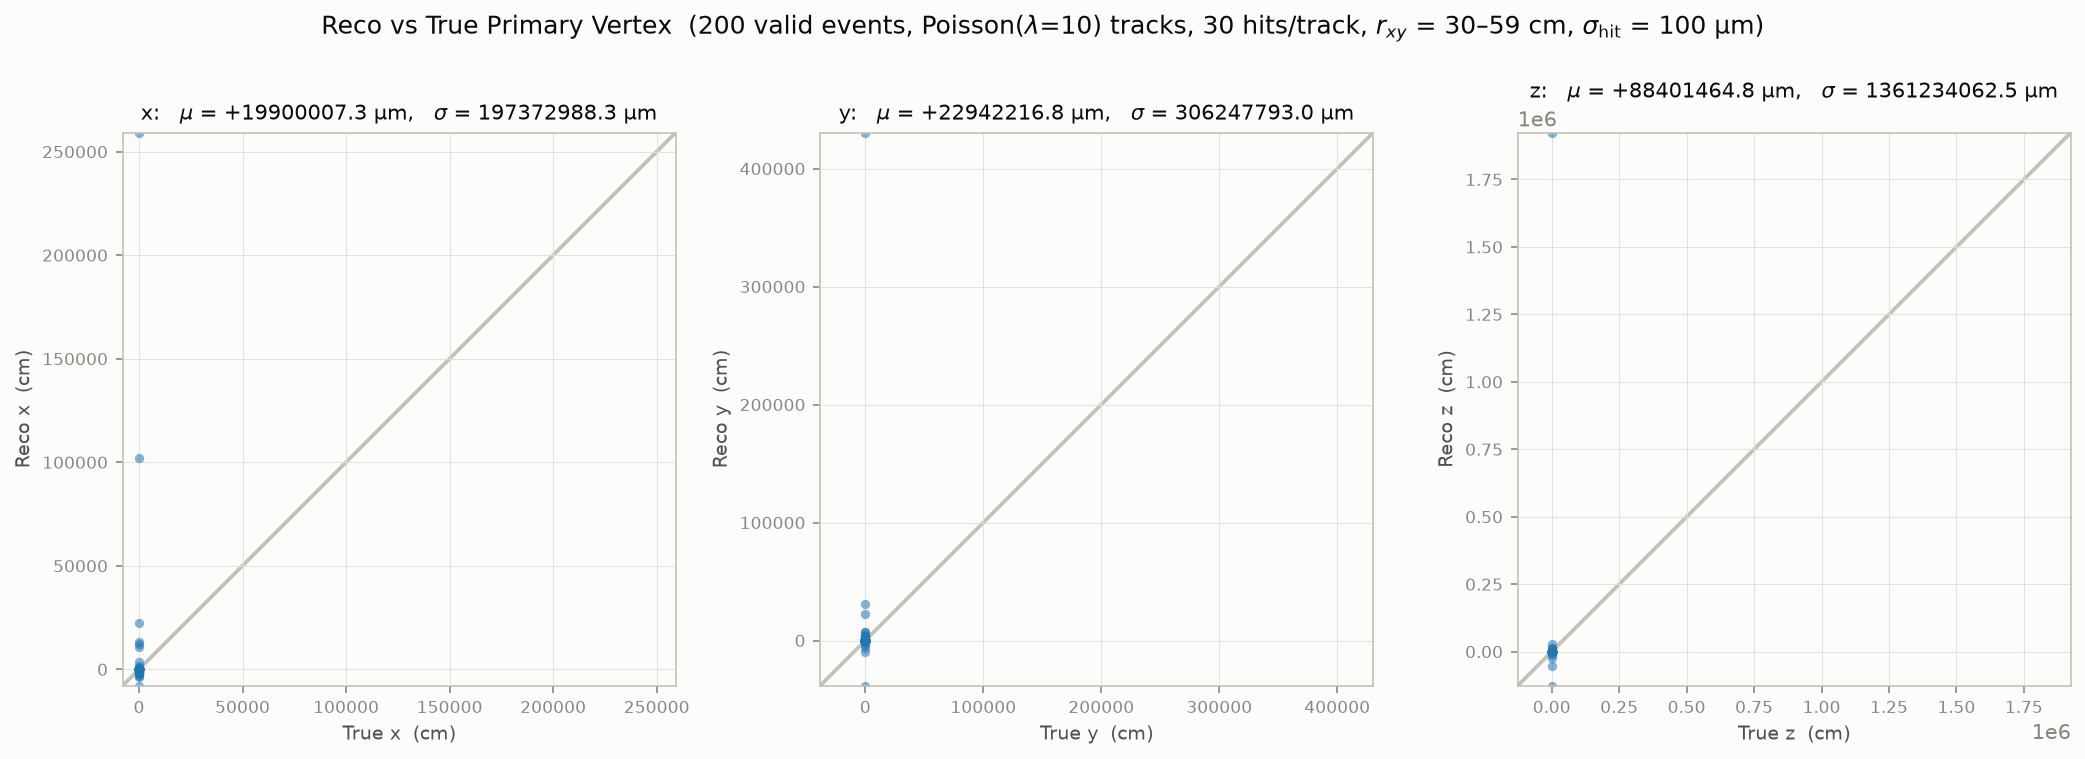
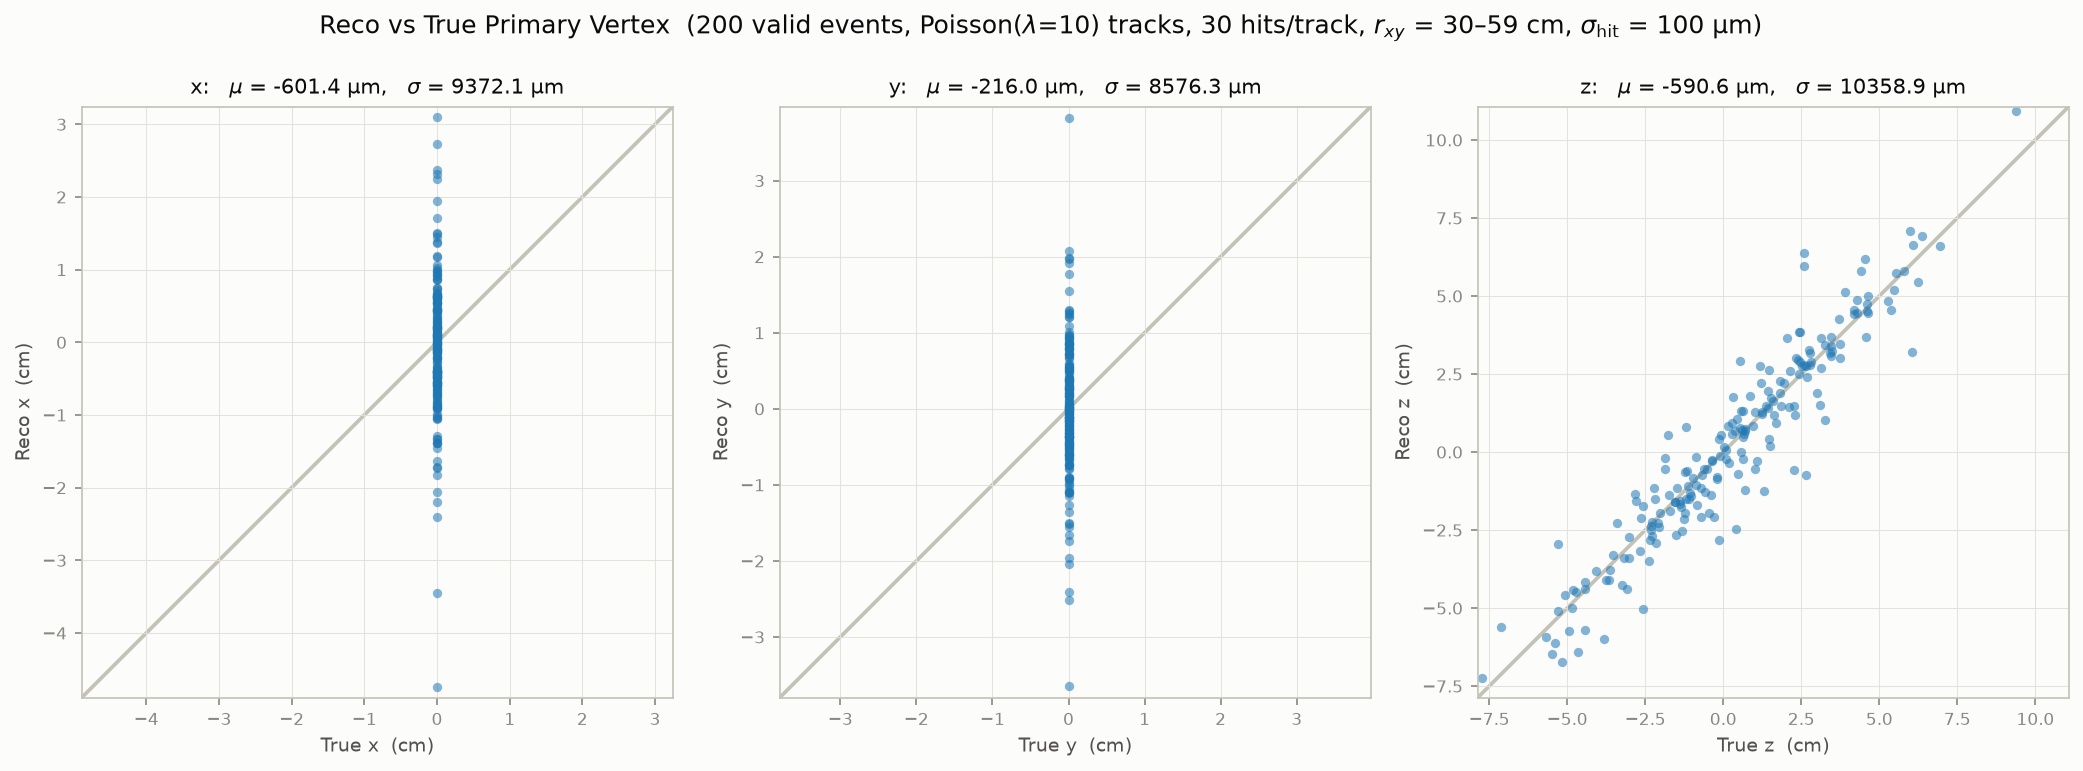
Fixed problems originating in overwritting orginal track information causing drift

diff --git a/train/downstream/vertex_head.py b/train/downstream/vertex_head.py
@@ -204,7 +204,7 @@ def fit_vertex_by_helix_closest_approach(
     track_position,
     b_z,
     track_weight,
-    n_iterations=100,
+    n_iterations=5,
     is_cosmics=False,
     seed_vertex=None,
     **linear_fit_kwargs,
@@ -264,9 +264,9 @@ def fit_vertex_by_helix_closest_approach(
 
     for iteration in range(n_iterations):
         PV_per_track = PV.unsqueeze(1).expand(-1, n_tracks, -1)  # (n_events, n_tracks, 3)
-        track_position, track_direction = get_helix_tangent(track_reg_result, track_position, b_z, PV_per_track, is_cosmics=is_cosmics)
+        new_track_position, track_direction = get_helix_tangent(track_reg_result, track_position, b_z, PV_per_track, is_cosmics=is_cosmics)
 
-        result = fit_vertex_by_closest_approach(track_position, track_direction, track_weight, **linear_fit_kwargs)
+        result = fit_vertex_by_closest_approach(new_track_position, track_direction, track_weight, **linear_fit_kwargs)
 
         new_PV = result["vertex_estimate"]
         fit_is_valid = result["fit_is_valid"]

diff --git a/train/downstream/test_vertex_simple.py b/train/downstream/test_vertex_simple.py
@@ -117,7 +117,7 @@ def helix_position_at_radius(vertex, p_T, theta, phi, charge, B_z, R_target):
     y = vy - rho * (math.cos(phi + alpha) - math.cos(phi))
     
     # Arc length along the trajectory.
-    s = rho * abs(alpha)
+    s = rho * abs(alpha) / math.sin(theta)
 
     # z advances linearly along the helix.
     z = vz + s * math.cos(theta)
